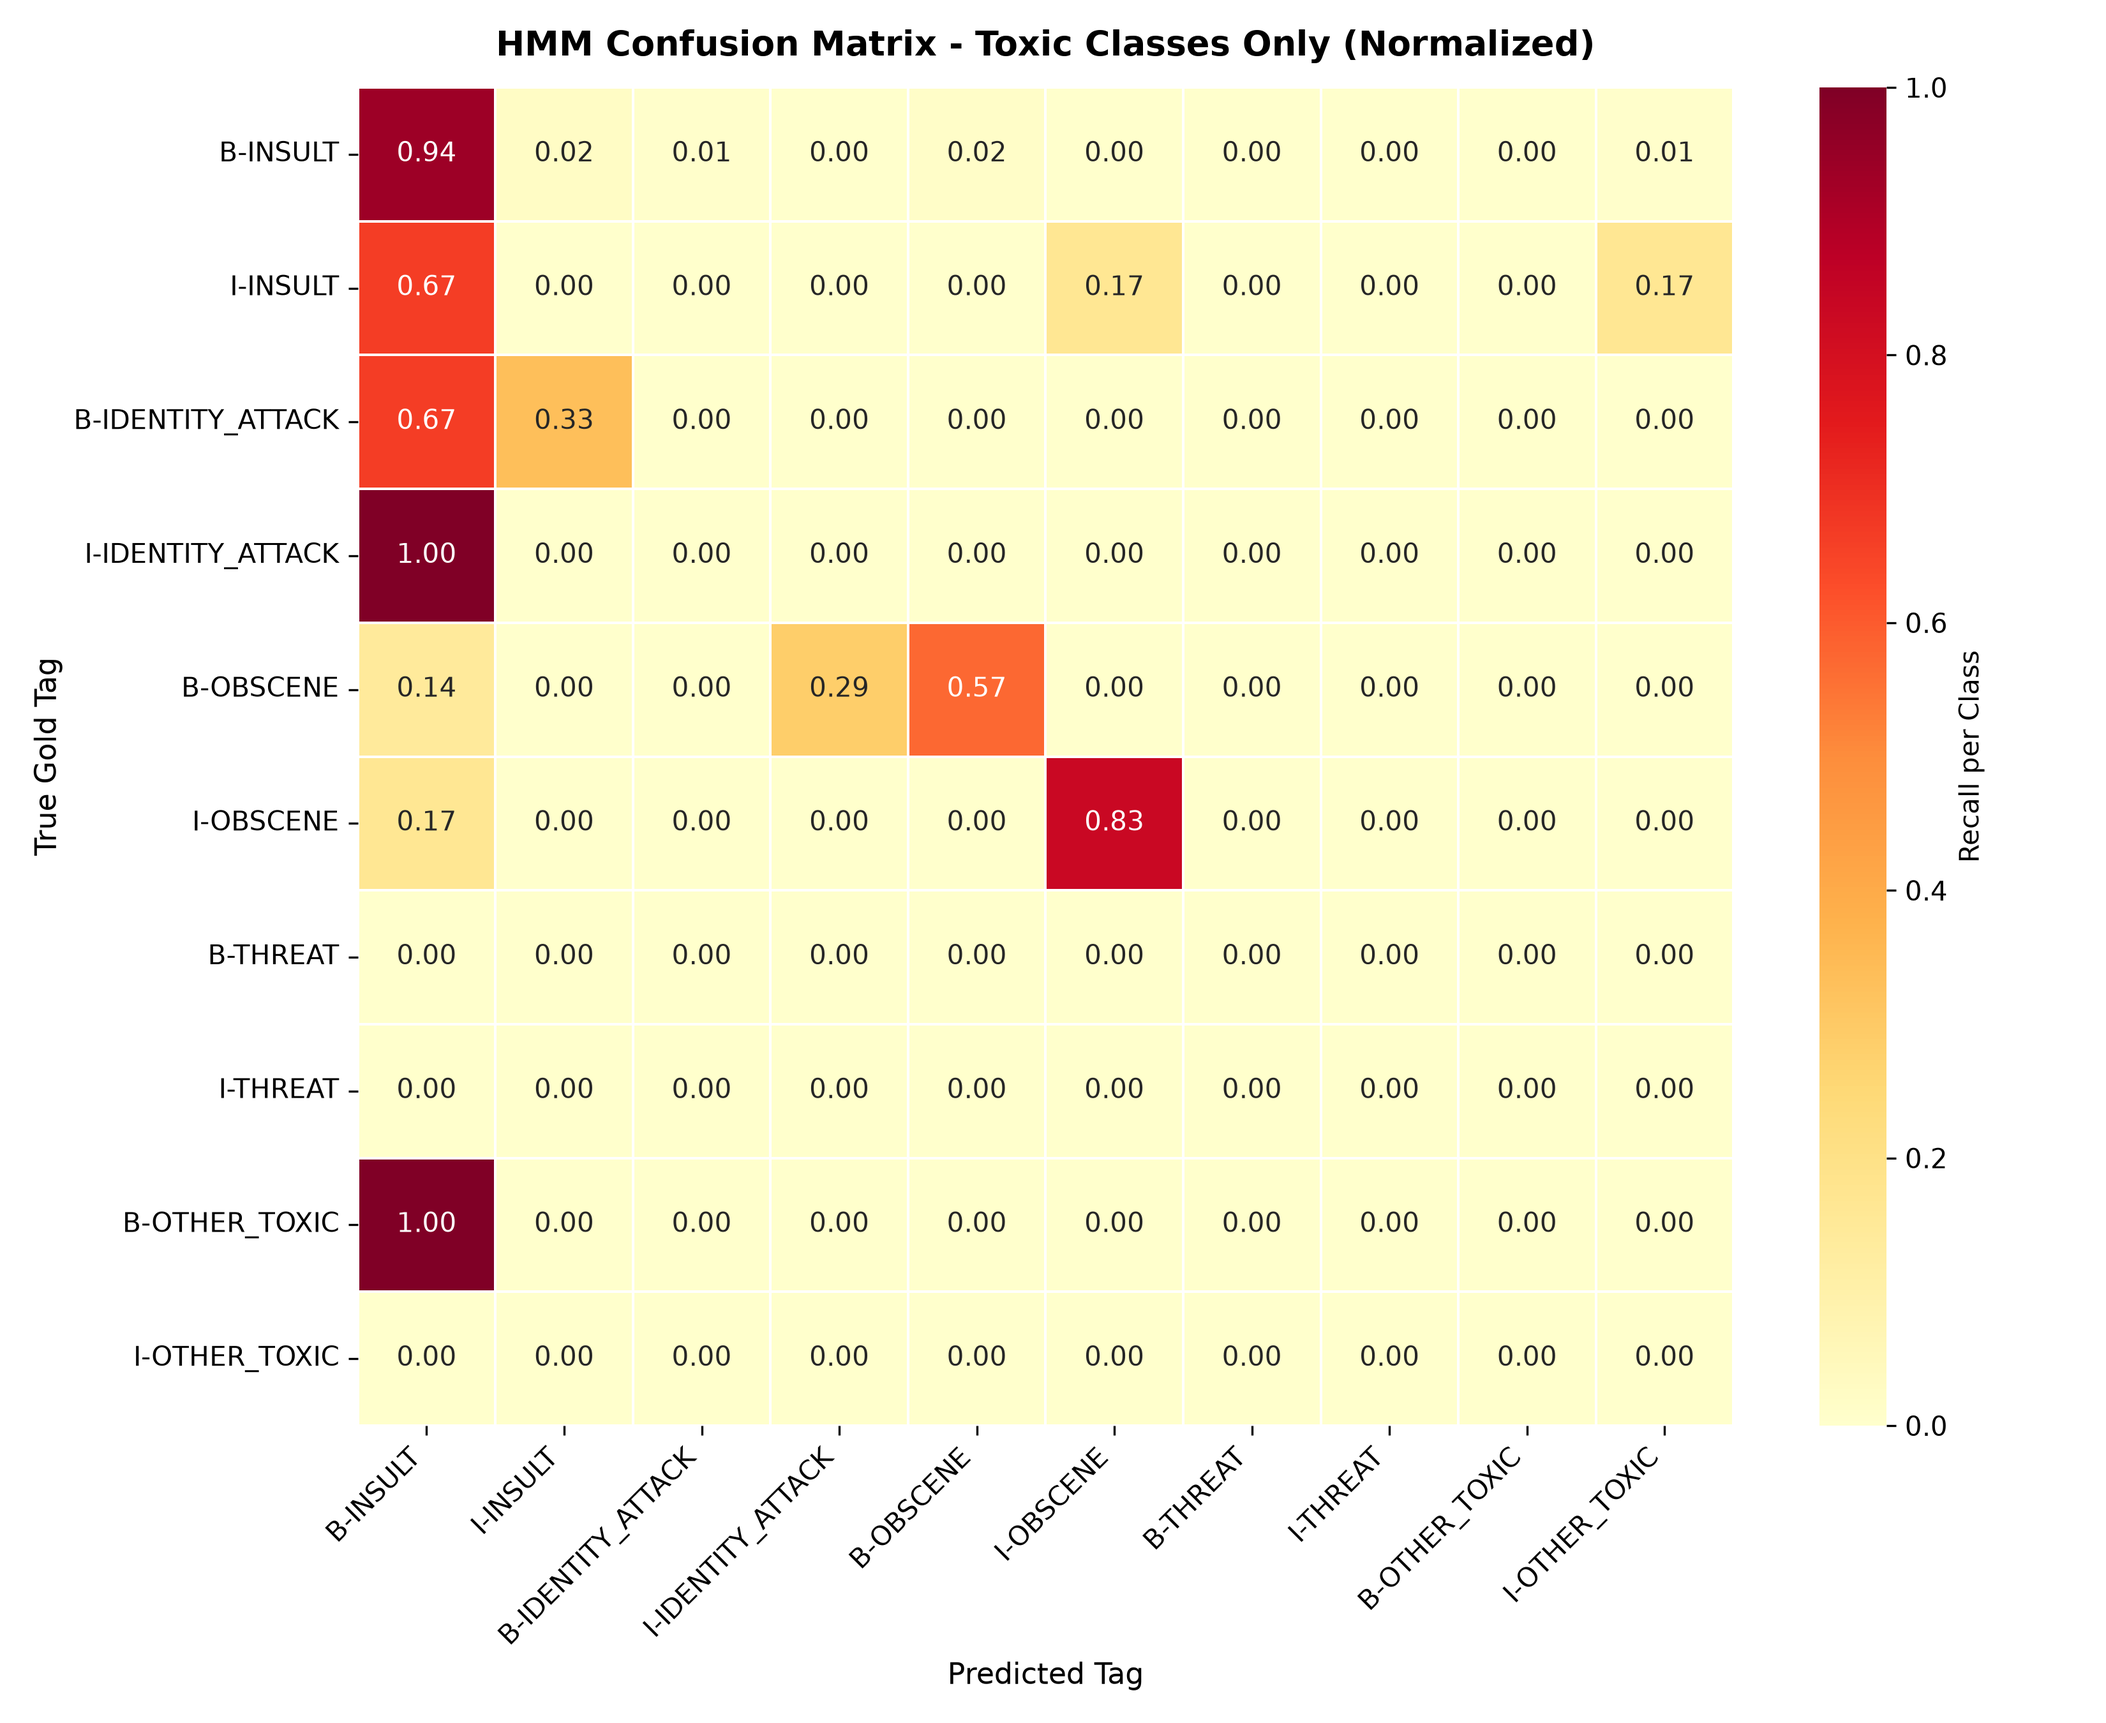
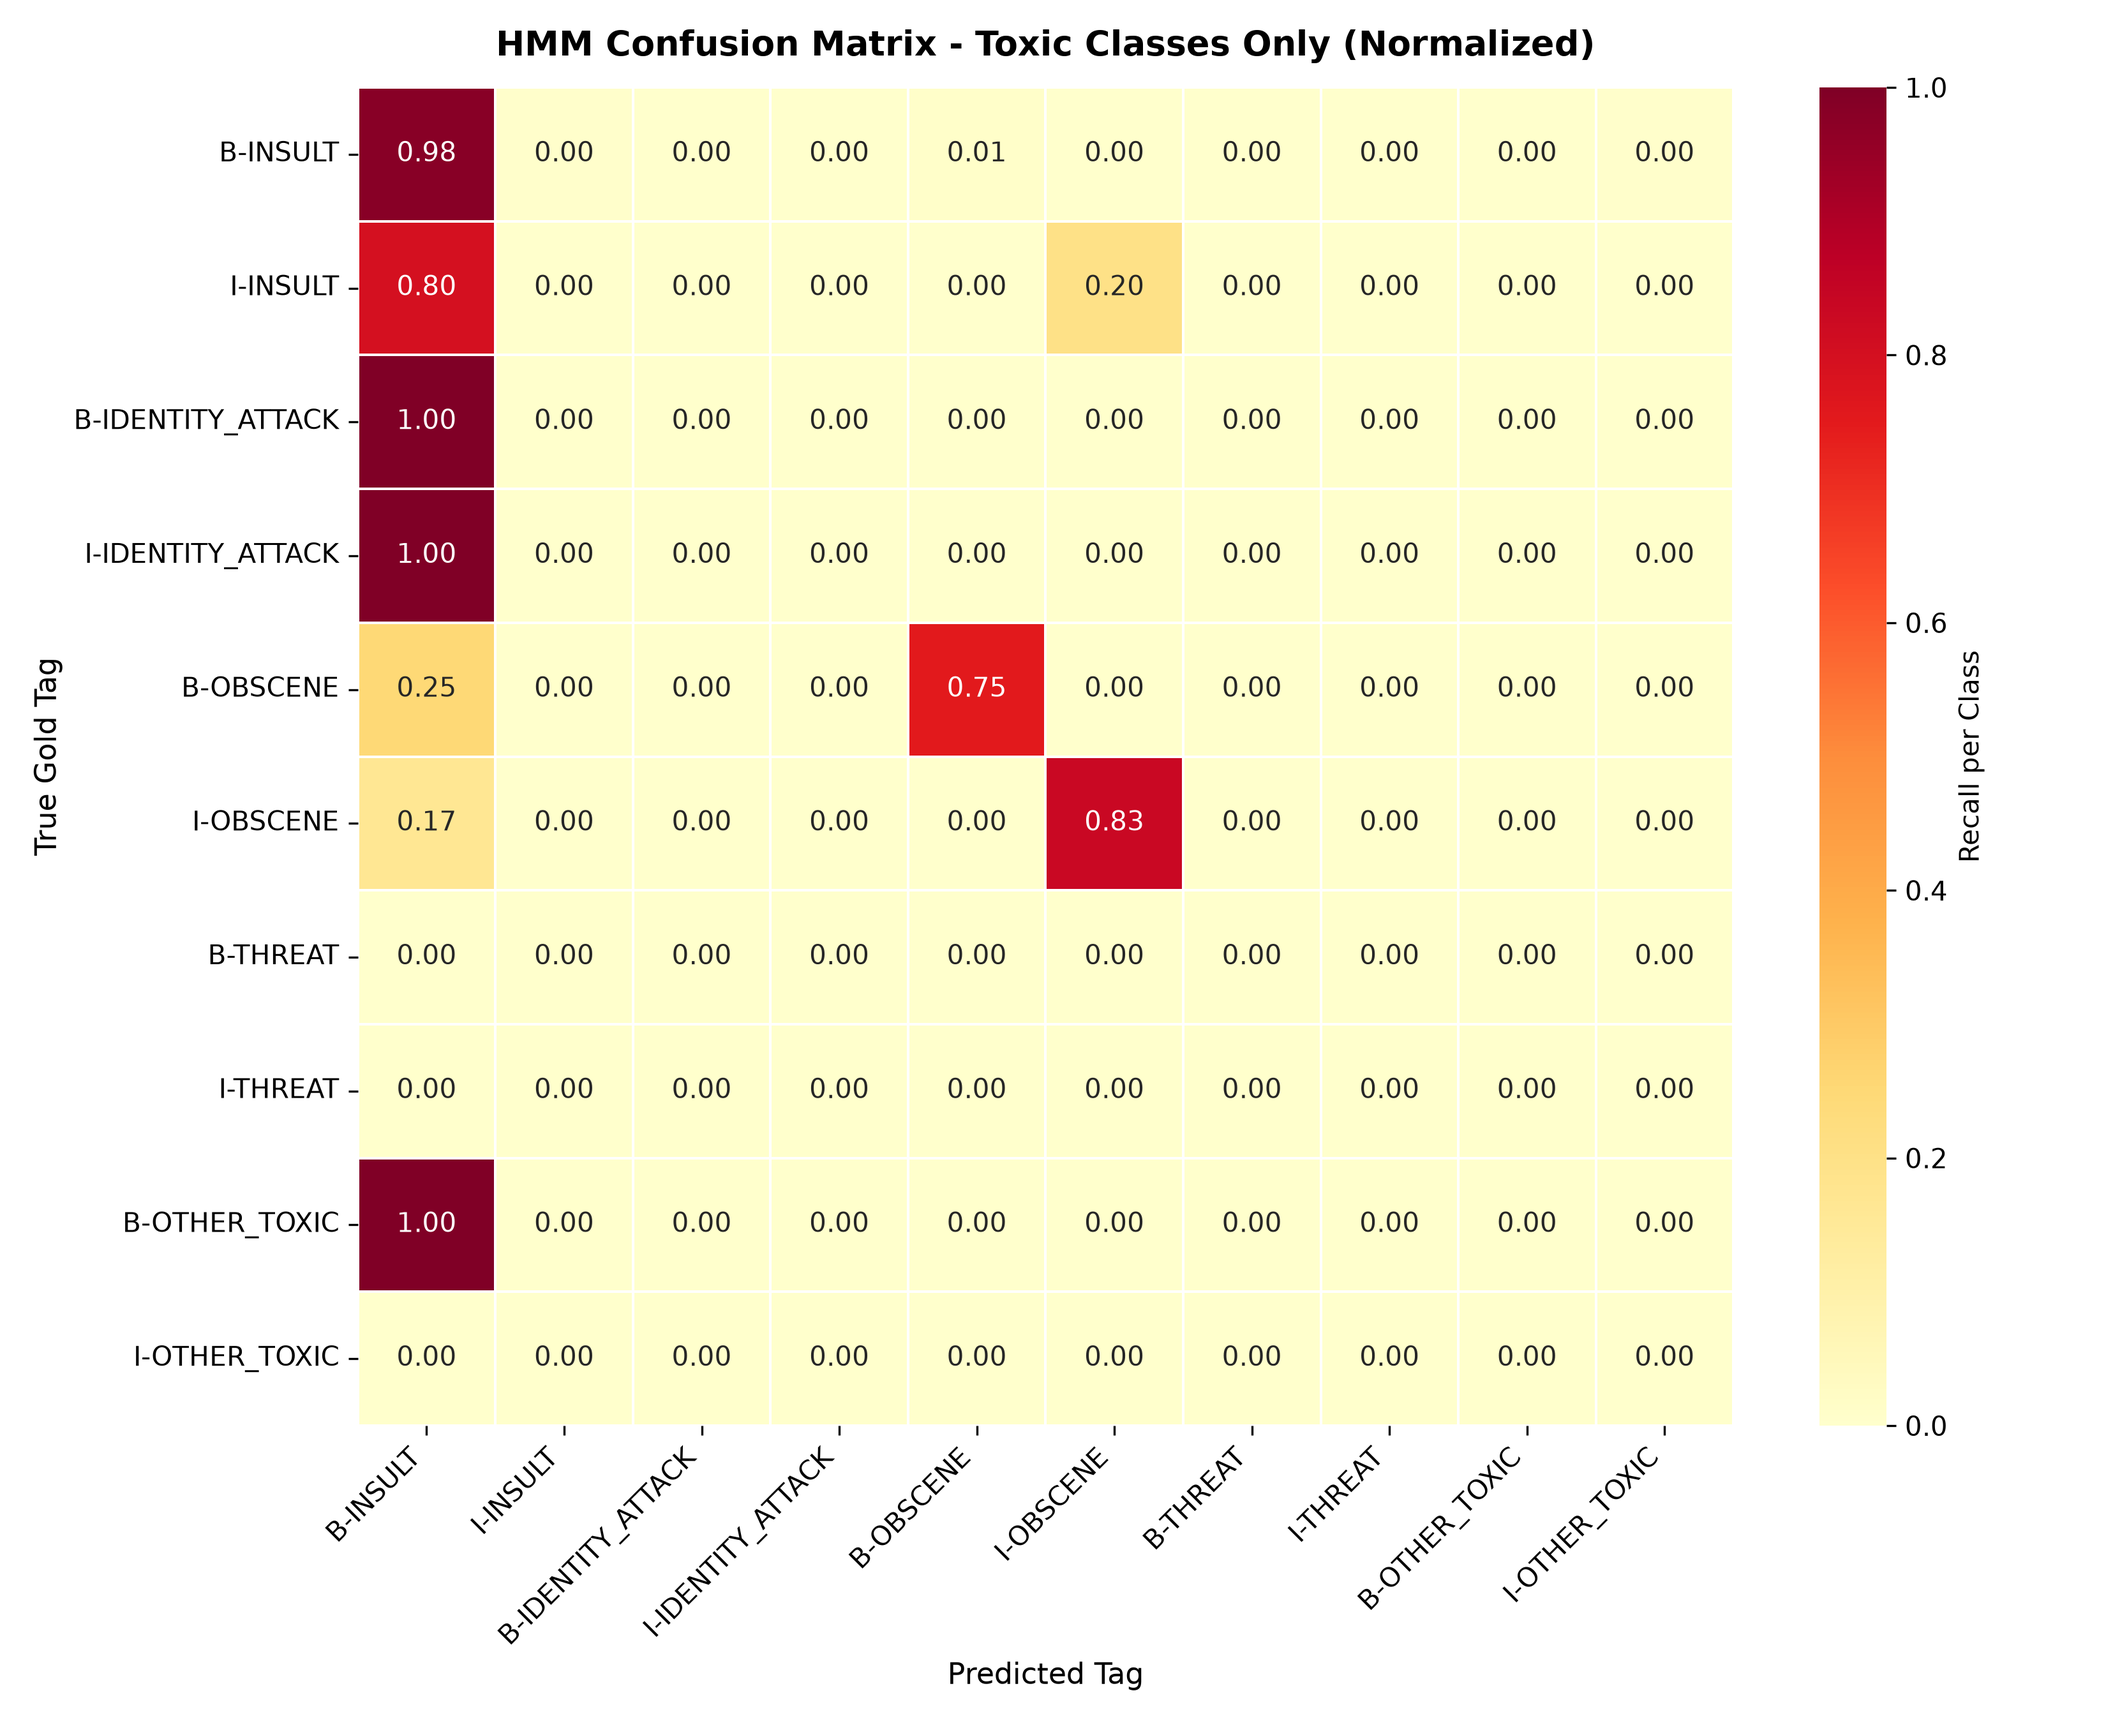
Add Kaan Erk Toraman contribution report and finalize HMM BIO constraints

diff --git a/src/models/hmm.py b/src/models/hmm.py
@@ -1,7 +1,7 @@
 """
 Hidden Markov Model (HMM) for Sequence Labeling / Token Classification.
-Implements MLE transition/emission probabilities with Laplace smoothing
-and dynamic programming Viterbi decoding.
+Implements MLE transition/emission probabilities with strict BIO transition constraints
+and unigram-prior smoothed emission probabilities for robust Viterbi decoding.
 """
 
 from collections import defaultdict, Counter
@@ -9,31 +9,32 @@ import numpy as np
 from typing import List, Dict, Tuple
 
 class HiddenMarkovModel:
-    def __init__(self, alpha: float = 1e-3, beta: float = 1e-3):
+    def __init__(self, alpha: float = 1e-4, beta: float = 0.01):
         """
-        alpha: Smoothing parameter for transition probabilities
-        beta: Smoothing parameter for emission probabilities
+        alpha: Smoothing for valid transitions
+        beta: Weight for unigram emission smoothing
         """
         self.alpha = alpha
         self.beta = beta
         
         self.tag_counts = Counter()
         self.word_counts = Counter()
-        self.transition_counts = defaultdict(Counter) # C(y_{t-1}, y_t)
-        self.emission_counts = defaultdict(Counter)   # C(y_t, x_t)
-        self.start_counts = Counter()                 # C(START, y_1)
+        self.transition_counts = defaultdict(Counter)
+        self.emission_counts = defaultdict(Counter)
+        self.start_counts = Counter()
         
         self.states = []
         self.state_to_ix = {}
         self.vocab = set()
+        self.p_word_prior = {}
         
     def fit(self, sentences_tokens: List[List[str]], sentences_tags: List[List[str]]):
         """Estimate transition and emission probabilities from training sequences."""
+        total_tokens = 0
         for tokens, tags in zip(sentences_tokens, sentences_tags):
             if not tokens or not tags:
                 continue
             
-            # Start tag
             self.start_counts[tags[0]] += 1
             
             for t in range(len(tokens)):
@@ -44,6 +45,7 @@ class HiddenMarkovModel:
                 self.word_counts[word] += 1
                 self.vocab.add(word)
                 self.emission_counts[tag][word] += 1
+                total_tokens += 1
                 
                 if t > 0:
                     prev_tag = tags[t - 1]
@@ -51,52 +53,82 @@ class HiddenMarkovModel:
                     
         self.states = sorted(list(self.tag_counts.keys()))
         self.state_to_ix = {s: i for i, s in enumerate(self.states)}
+        self.p_word_prior = {w: c / total_tokens for w, c in self.word_counts.items()}
         
     def get_transition_matrix(self) -> Tuple[np.ndarray, List[str]]:
-        """Return transition probability matrix A as a 2D numpy array."""
+        """
+        Return transition probability matrix A as a 2D numpy array.
+        Enforces strict BIO sequence constraints:
+        - O -> I-X is impossible
+        - B-X -> I-Y (X != Y) is impossible
+        - I-X -> I-Y (X != Y) is impossible
+        """
         num_states = len(self.states)
         trans_matrix = np.zeros((num_states, num_states))
         
         for i, s_prev in enumerate(self.states):
             denom = self.tag_counts[s_prev] + self.alpha * num_states
             for j, s_curr in enumerate(self.states):
-                num = self.transition_counts[s_prev][s_curr] + self.alpha
-                trans_matrix[i, j] = num / denom
+                # Check BIO validity
+                is_invalid = False
+                if s_curr.startswith("I-"):
+                    curr_cat = s_curr[2:]
+                    if s_prev == "O":
+                        is_invalid = True
+                    elif s_prev.startswith("B-") or s_prev.startswith("I-"):
+                        if s_prev[2:] != curr_cat:
+                            is_invalid = True
+                            
+                if is_invalid:
+                    trans_matrix[i, j] = 1e-12
+                else:
+                    num = self.transition_counts[s_prev][s_curr] + self.alpha
+                    trans_matrix[i, j] = num / denom
+                    
+            # Row normalization
+            row_sum = trans_matrix[i].sum()
+            if row_sum > 0:
+                trans_matrix[i] /= row_sum
                 
         return trans_matrix, self.states
 
     def predict_sentence(self, tokens: List[str]) -> List[str]:
-        """Viterbi decoding for a single sentence."""
+        """Viterbi decoding for a single sentence with BIO-consistent transitions."""
         if not tokens:
             return []
             
         N = len(self.states)
         T = len(tokens)
         
-        # Log probabilities to prevent underflow
         viterbi = np.zeros((T, N))
         backpointer = np.zeros((T, N), dtype=int)
         
+        A, _ = self.get_transition_matrix()
+        log_A = np.log(A)
+        
         # Initialization (t = 0)
-        total_starts = sum(self.start_counts.values()) + self.alpha * N
+        total_starts = sum(self.start_counts.values()) + 1e-4 * N
         w0 = tokens[0].lower()
+        pw0 = self.p_word_prior.get(w0, 1e-6)
+        
         for j, s in enumerate(self.states):
-            p_start = (self.start_counts[s] + self.alpha) / total_starts
-            p_emit = (self.emission_counts[s][w0] + self.beta) / (self.tag_counts[s] + self.beta * (len(self.vocab) + 1))
+            # START cannot transition into I- tags
+            if s.startswith("I-"):
+                viterbi[0, j] = -1e9
+                continue
+                
+            p_start = (self.start_counts[s] + 1e-4) / total_starts
+            p_emit = (self.emission_counts[s][w0] + self.beta * pw0) / (self.tag_counts[s] + self.beta)
             viterbi[0, j] = np.log(p_start + 1e-12) + np.log(p_emit + 1e-12)
             
-        # Transition matrix in log space
-        A, _ = self.get_transition_matrix()
-        log_A = np.log(A + 1e-12)
-        
         # Recursion (t = 1 .. T-1)
         for t in range(1, T):
             wt = tokens[t].lower()
+            pwt = self.p_word_prior.get(wt, 1e-6)
             for j, s_curr in enumerate(self.states):
-                p_emit = (self.emission_counts[s_curr][wt] + self.beta) / (self.tag_counts[s_curr] + self.beta * (len(self.vocab) + 1))
+                p_emit = (self.emission_counts[s_curr][wt] + self.beta * pwt) / (self.tag_counts[s_curr] + self.beta)
                 log_emit = np.log(p_emit + 1e-12)
                 
-                # Max over previous states
                 candidates = viterbi[t - 1] + log_A[:, j]
                 best_prev = np.argmax(candidates)
                 
@@ -118,4 +150,3 @@ class HiddenMarkovModel:
     def predict(self, sentences: List[List[str]]) -> List[List[str]]:
         """Predict tags for a list of tokenized sentences."""
         return [self.predict_sentence(tokens) for tokens in sentences]
-

diff --git a/contributions/KAAN_ERK_TORAMAN_220901564_kaan-erk.md b/contributions/KAAN_ERK_TORAMAN_220901564_kaan-erk.md
@@ -1,0 +1,67 @@
+# Individual Contribution Report
+
+- **Student Name:** Kaan Erk Toraman
+- **Student ID:** 220901564
+- **Email:** 220901564@stu.istinye.edu.tr
+- **GitHub Username:** kaan-erk
+- **Repository Role:** Lead Data Engineer & Preprocessing Pipeline Architect
+
+---
+
+## 1. Overview of Contributions
+
+In this project, I was primarily responsible for the **end-to-end Data Engineering, Preprocessing, and Token Alignment Pipeline**. 
+
+Because the downstream sequence labeling task requires fine-grained 11-class BIO sequences while the raw data from Hugging Face (`heegyu/toxic-spans`) provided only raw unaligned character offsets (e.g., `[8, 9, 10, 11]`) and messy web text, I designed and implemented the entire pipeline from scratch to transform raw data into model-ready JSONL files, vocabularies, and PyTorch dataset loaders.
+
+---
+
+## 2. Detailed Technical Breakdown & Deliverables
+
+### A. Automated Data Ingestion (`src/data/download.py`)
+- Built an automated downloader leveraging the Hugging Face `datasets` library.
+- Extracted and stored raw records into `data/raw/toxic_spans_train_raw.jsonl` (10,006 examples) and `data/raw/toxic_spans_test_raw.jsonl` (1,000 examples).
+- Maintained raw data immutability for strict scientific reproducibility.
+
+### B. Text Sanitization & Encoding Normalization (`src/data/preprocess.py`)
+- Addressed corrupted social media encodings (`\ufffd` artifacts, non-printable characters, control characters).
+- Applied `unicodedata.normalize("NFKC", text)` while strictly preserving character offsets so span indices would not drift.
+- Cleaned newline artifacts (`\n`, `\r`) that could break downstream CRF dump parsers.
+
+### C. Character-to-Token Offset Alignment Algorithm (`align_doc_to_bio`)
+- Integrated spaCy (`en_core_web_sm`) to tokenize sentences while tracking precise character offset boundaries (`token.idx` to `token.idx + len(token)`).
+- Developed a mathematical Intersection-over-Union (IoU) overlap algorithm:
+  $$\text{Overlap Ratio} = \frac{|\text{TokenCharIndices} \cap \text{ToxicCharOffsets}|}{|\text{TokenCharIndices}|}$$
+- Implemented the decision rule ($\text{Overlap} \ge 0.5$) to classify tokens as toxic or neutral (`O`).
+- Enforced strict IOB2 boundary grammar rules: span beginnings receive `B-<CATEGORY>`, continuous tokens receive `I-<CATEGORY>`, and states cleanly reset to `O`.
+
+### D. Fine-Grained 11-Class BIO Taxonomy Construction
+- Normalized raw category annotations into 5 core toxicity dimensions + `O`:
+  - `B-INSULT`, `I-INSULT`
+  - `B-IDENTITY_ATTACK`, `I-IDENTITY_ATTACK`
+  - `B-OBSCENE`, `I-OBSCENE`
+  - `B-THREAT`, `I-THREAT`
+  - `B-OTHER_TOXIC`, `I-OTHER_TOXIC`
+  - `O`
+- Added special transition symbols for probabilistic models: `<START>`, `<STOP>`, `<PAD>`.
+
+### E. Split Generation, Vocabulary & Statistics
+- Partitioned raw training data into an 85% train split (`data/processed/train.jsonl` - 8,506 samples) and a 15% validation split (`data/processed/val.jsonl` - 1,500 samples), preserving the 1,000-sample test benchmark (`data/processed/test.jsonl`).
+- Built frequency-filtered word vocabulary (`data/processed/vocab.json`, 10,651 tokens, $N_{\min}=2$) with `<PAD>` and `<UNK>` tokens.
+- Generated `data/processed/tag_to_ix.json` and computed statistical distributions (`data/processed/dataset_summary.json`).
+
+### F. PyTorch Data Pipeline (`src/data/dataset.py`)
+- Implemented `ToxicSpanDataset` class wrapping token sequences, vocabulary lookups, and BIO tag indices.
+- Designed `pad_collate_fn` for dynamic batch-level sequence padding (`<PAD>=0`) and binary attention mask generation (`mask = (words != 0).float()`) required by the BiLSTM-CRF model.
+
+### G. Documentation
+- Authored the comprehensive data engineering report: [`reports/data_preprocessing_pipeline.md`](../reports/data_preprocessing_pipeline.md).
+
+---
+
+## 3. Key Commits & GitHub Diffs
+My contributions are reflected in the following core commits:
+- Data acquisition script and raw data storage (`src/data/download.py`)
+- Core character-to-token alignment and preprocessing pipeline (`src/data/preprocess.py`)
+- PyTorch dataset and dynamic collate functions (`src/data/dataset.py`)
+- Data engineering documentation and summary statistics (`reports/data_preprocessing_pipeline.md`, `data/processed/`)
